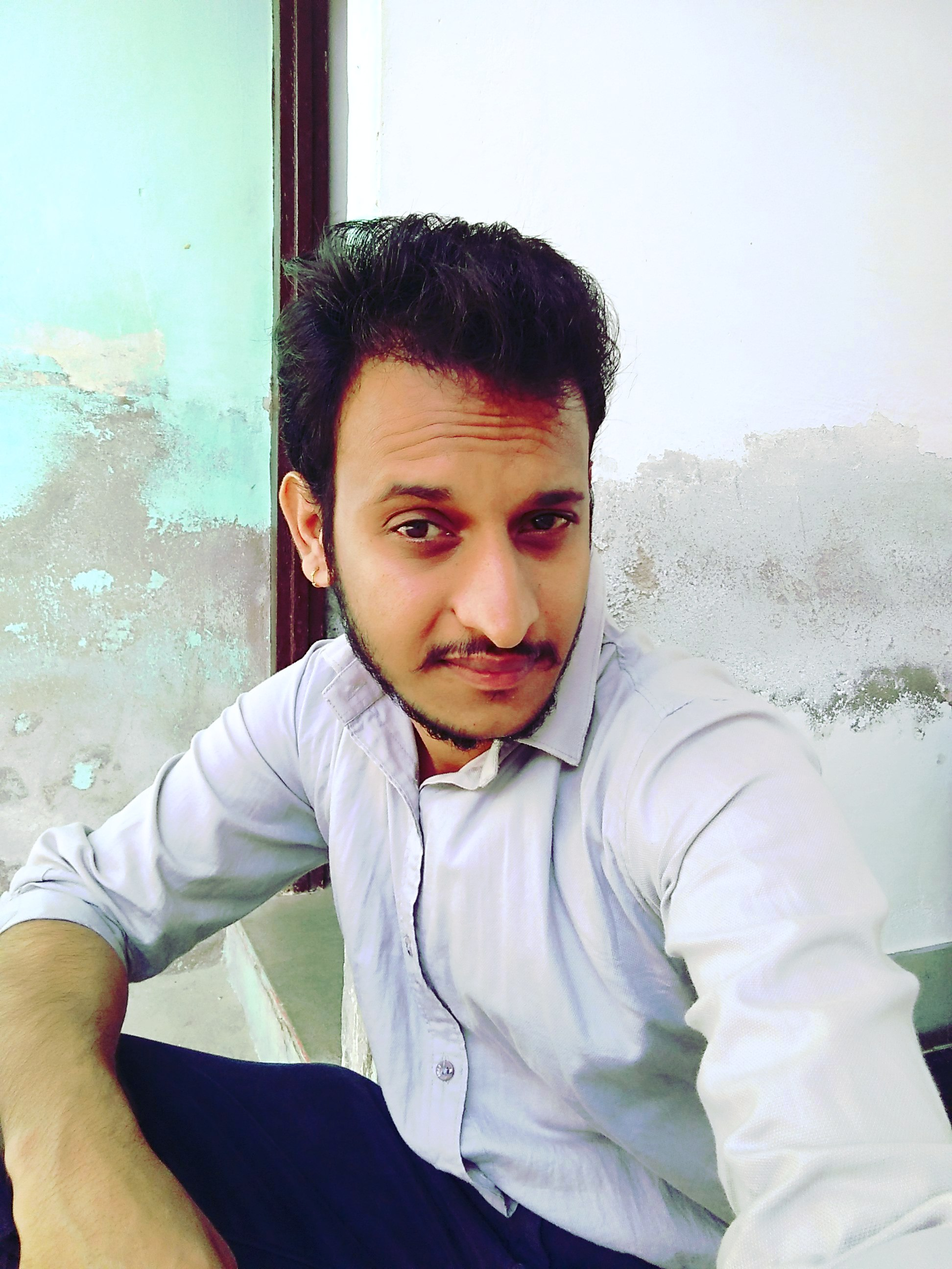
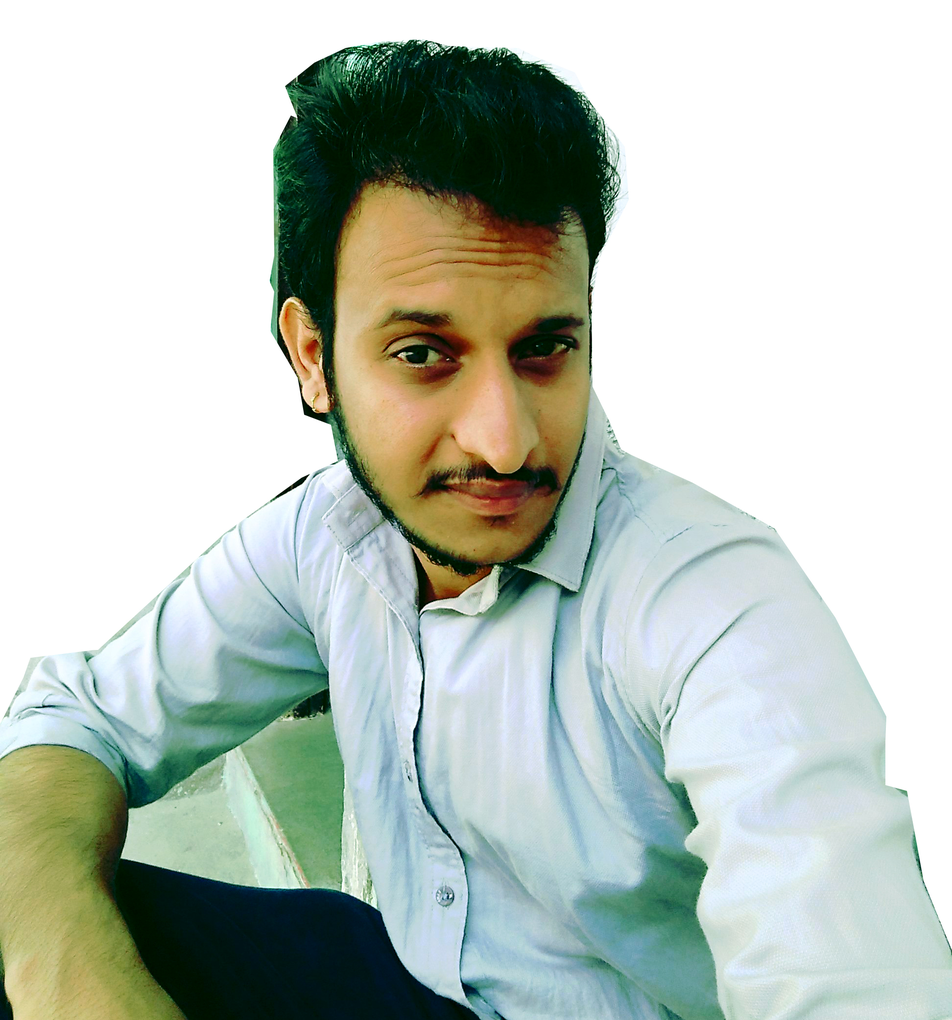
change my profile
i have a same chnge in my profule

diff --git a/index.html b/index.html
@@ -2,9 +2,14 @@
 <html>
 <head>
 <title>Gajendra Singh </title>
+<!-- Latest compiled and minified CSS -->
+<link rel="stylesheet" href="https://maxcdn.bootstrapcdn.com/bootstrap/3.3.7/css/bootstrap.min.css">
 
-<link rel="stylesheet" type="text/css" href="https://maxcdn.bootstrapcdn.com/bootstrap/4.0.0/css/bootstrap.min.css">
-<link rel="stylesheet" type="text/css" href="https://maxcdn.bootstrapcdn.com/bootstrap/4.0.0/js/bootstrap.min.js">
+<!-- jQuery library -->
+<script src="https://ajax.googleapis.com/ajax/libs/jquery/3.3.1/jquery.min.js"></script>
+
+<!-- Latest compiled JavaScript -->
+<script src="https://maxcdn.bootstrapcdn.com/bootstrap/3.3.7/js/bootstrap.min.js"></script>
 <link rel="stylesheet" type="text/css" href="style.css">
 
 </head>
@@ -15,11 +20,13 @@
 
 <div class="container class01">
   <div class="row">
-  	 <div class="col-sm-3">
-  	 	<img src="https://scontent.fjai1-1.fna.fbcdn.net/v/t1.0-9/27867563_583799141956727_4401324261129870325_n.jpg?oh=8d3dddd20fa2091e3883c7f86b3061ea&oe=5B0E2B3B" width="260px">
-  	 </div>
-	    <div class="col-sm-9">
+  	 
+	    <div class="col-md-8">
+           <h1><span class="main-letter">A</span>bout Me</h1><br>
+           <h4>HELLO WORLD!</h4>
+           <h1>I'm a designer.</h1>
            <h1>Gajendra Ranawat </h1>
+           
            <h4>Freelance Website Designer & Developer India</h4>
            <p>+91 9571357244 | gajendraranawat23@gmail.com <br />
             <i class="fa fa-facebook"></i> <i class="fa fa-facebook"></i> <i class="fa fa-facebook"></i>  
@@ -28,7 +35,9 @@
            <hr />
 	   </div>
 	
-
+      <div class="col-md-4">
+      <img src="C:\Users\user\Desktop\gajendraranawat.github.io\gajendra.jpg" class="img-responsive">
+     </div>
 	   
 	  
   </div>

diff --git a/style.css b/style.css
@@ -1,6 +1,36 @@
-.class01 {
-	box-shadow: 1px 5px 13px #ece3e3;
-	padding: 20px;
-	background: #e8f7ff;
+
+body 
+
+	{
+     font-family: Poppins,sans-serif;
+    font-size: 14px;
+    line-height: 1.42857143;
+    color: #333;
+    background-color: #fff;
+    margin-top: 54px;
+
 }
 
+.class01 {
+	box-shadow: 0 5px 35px 0 rgba(0,0,0,.2);
+	padding: 20px;
+	background: #fff;
+}
+
+.main-letter {
+    font-size: 80px;
+    line-height: 1;
+    color: #f9cc4a;
+    font-weight: 600;
+    position: relative;
+    letter-spacing: 2px;
+    border-bottom: 5px solid;
+}
+
+h4 {
+	 letter-spacing: 3px;
+}
+
+h1 {
+	font-weight: 700;
+}
